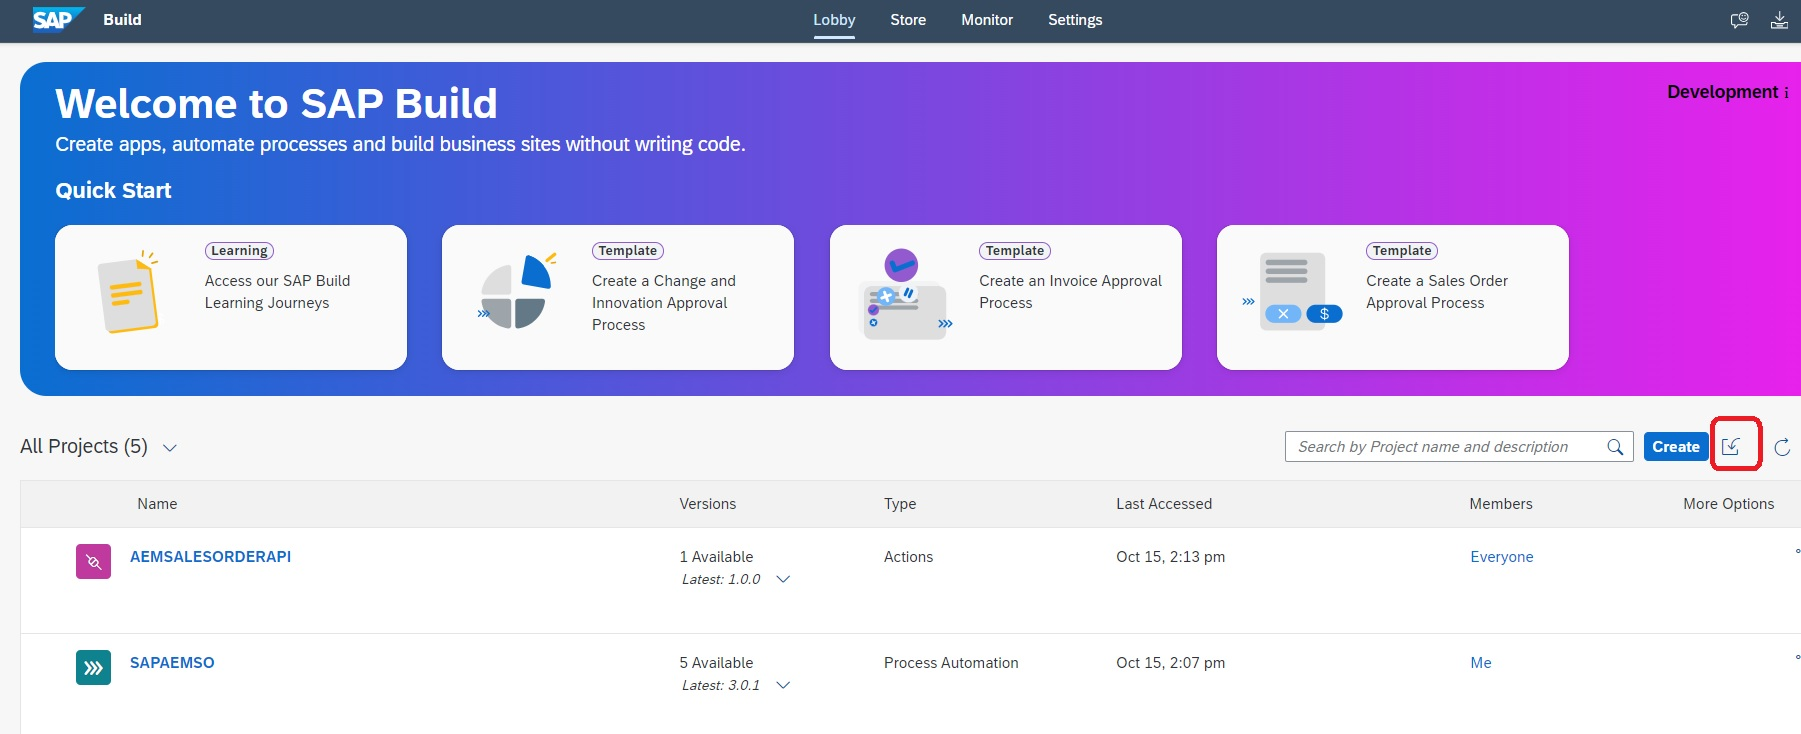
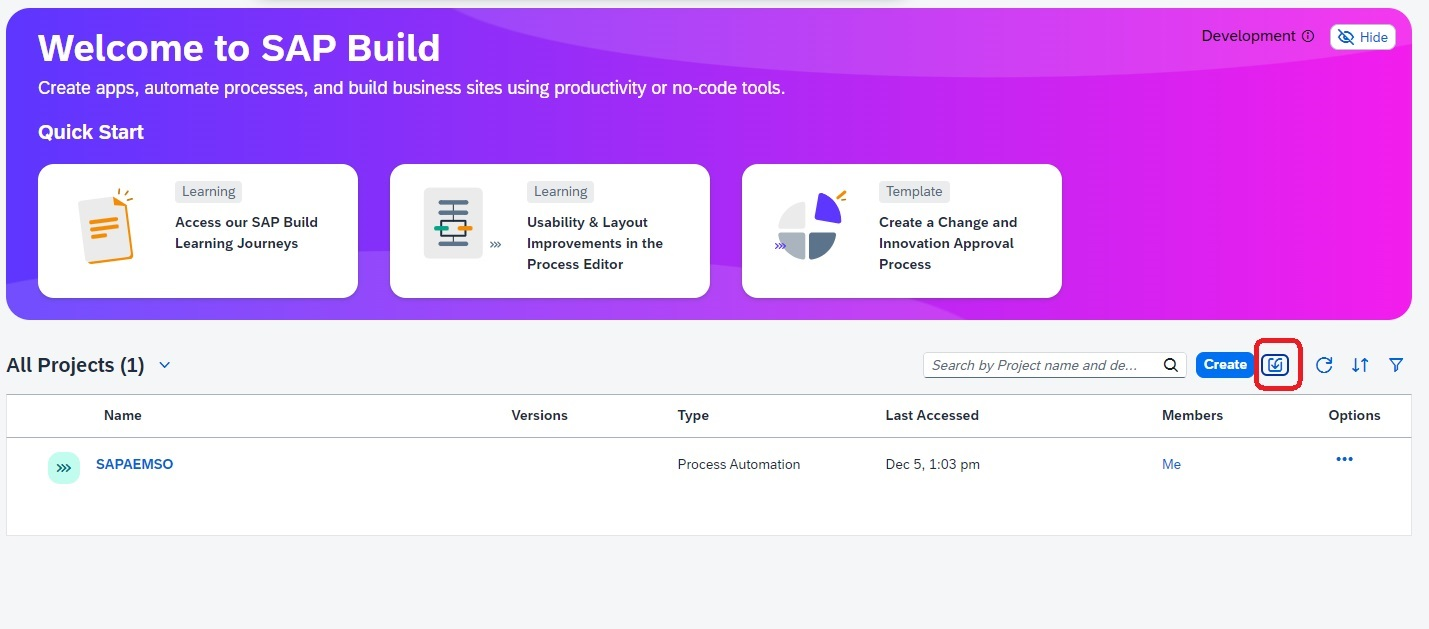
Sap aem int day 4 (#298)
* Initial version of SAP AEM Integration - day 4

* Add files via upload

* Update sap-aem-int-day-4.md

* updated codelabs folder

* Update sap-aem-int-day-4.md

* Add files via upload

* Update sap-aem-int-day-4.md

* updated exported codelabs

* updated exported codelabs

* Update sap-aem-int-day-4.md

* Add files via upload

* Update sap-aem-int-day-4.md

* Add files via upload

* Update sap-aem-int-day-4.md

* Add files via upload

* Add files via upload

* updated files

* Update sap-aem-int-day-4.md

* Add files via upload

* Update sap-aem-int-day-4.md

* Update sap-aem-int-day-4.md

* Add files via upload

* Update sap-aem-int-day-4.md

* Updated codelabs based on Scott's changes

* Update sap-aem-int-day-4.md

* Add files via upload

* Update sap-aem-int-day-4.md

* Add files via upload

* Updated codelabs with latest content

* Update sap-aem-int-day-4.md

* Add files via upload

* Add files via upload

* Update sap-aem-int-day-4.md

* Update sap-aem-int-day-4.md

* Add files via upload

* Update sap-aem-int-day-4.md

* Updated codelabs based on Scott's changes

* Update sap-aem-int-day-4.md

* Updated codelabs based on Scott's changes

* Updated codelabs for SAP AEM INT-Day-4 to include Neha's changes

* Updated codelabs for SAP AEM INT-Day-4 to include Neha's changes

* Updated codelabs for SAP AEM INT-Day-4 to include Neha's changes

* Add files via upload

* Update sap-aem-int-day-4.md

* Add files via upload

* Add files via upload
[…]

diff --git a/markdown/sap-aem-int-day-4/sap-aem-int-day-4.md b/markdown/sap-aem-int-day-4/sap-aem-int-day-4.md
@@ -26,11 +26,11 @@ Topics covered :
 
 ## Using SAP BPA to handle event exceptions
 
-In the world of Event Driven Asynchronous messaging, sometimes events cannot be successfully processed by a consumer and as a result, they need to be dealt with on an exception basis. As a result, there is built in capability within the broker referred to a Dead Messages Queue. Essentially, messages can be placed into a special queue where they can later be reviewed and properly dealt with. Should you wish to read more on the concept of Dead Message Queues, please refer to the following link. 
+In the world of Event Driven Asynchronous messaging, sometimes events cannot be successfully processed by a consumer and as a result, they need to be dealt with on an exception basis. As a result, there is built in capability within the broker referred to as a Dead Messages Queue. Essentially, messages can be placed into a special queue where they can later be reviewed and properly dealt with. Should you wish to read more on the concept of Dead Message Queues, please refer to the following link. 
 
 [Link to Blog](https://solace.com/blog/pubsub-message-handling-features-dead-message-queues/)
 
-In our scenario, we will artificially create a situation where messages cannot be delivered to the endpoint. As a result, they end up in the Dead Message Queue and the application shown below has an integration card on it called "Dead Message Queue". This card is a very simple Queue browser. It displays the messages without removing them from the Queue unless you hit the submit button. Hitting the submit button will release the message from the Queue and it will be sent to the broker with a special topic. A special topic that will result in the message being placed into a Queue that is being actively monitored by Cloud Integration. The message will be transformed by Cloud Integration and the message will be placed back into the mesh. The broker will act upon this new message and instantiate a new business process for each message.
+In our scenario, we will artificially create a situation where messages cannot be delivered to the endpoint. As a result, they end up in the Dead Message Queue and the application shown below has an integration card on it called "Dead Message Queue". This card is a very simple Queue browser. It displays the messages without removing them from the Queue unless you hit the submit button. The steps and diagram below walk through the exact flow you will be implementing.
 
 In the following diagram, you can see the flow you are about to implement.
 - Step 1 -> The user decides to investigate the item displayed in the dead message queue so they hit the submit button which causes the message to be published on the topic shown.
@@ -130,12 +130,12 @@ The business process that we will deploy is activated by an API Trigger which ca
 
 ![SAP BPA Image 1](img/SPA-BPA-1.jpg)
 
-The "Action" component needs to be associatd with a destination. In order to create the destination, you will need "REST" connectivity information from your broker. Navigate to your AEM Cloud Console, you will select the Cluster Manager and then you will select your broker. From there, you will select the “Connect” option at the top. On this screen, make sure that the “View By” is set to Protocol as the first step. From there, expand the REST protocol and everything you need to create the destination will be visible.
+The "Action" component needs to be associated with a destination. In order to create the destination, you will need "REST" connectivity information from your broker. Navigate to your AEM Cloud Console, you will select the Cluster Manager and then you will select your broker. From there, you will select the “Connect” option at the top. On this screen, make sure that the “View By” is set to Protocol as the first step. From there, expand the REST protocol and everything you need to create the destination will be visible.
 
 ![SAP BPA Image 2](img/AEM-2.jpg)
 
 ### Navigate to the BTP Cloud Cockpit
-Once you have the connectivity information, Navigate to the Destinatios Section within the BTP Cockpit, Select the “New Destination” option. You will be creating a destination called “AEMBROKERREST”.
+Once you have the connectivity information, Navigate to the Destinations Section within the BTP Cockpit, Select the “New Destination” option. You will be creating a destination called “AEMBROKERREST”.
 
 ![BPA Image 20](img/BPA-20.jpg)
 
@@ -143,29 +143,33 @@ You will populate the Destination information as shown below and you will add tw
 - sap.applicationdevelopment.actions.enabled – true
 - sap.processautomation.enabled – true
 
-When your destination is finished and saved, double check to make sure both properties are there.
+When your destination is created, double check to make sure both properties are there.
 
 
 ![BPA Image 21](img/BPA-21.jpg)
 
 ## Creating the SAP BPA Project
 
-For the SAP BPA setup, we will be importing 1 File that contains 2 projects: 
-- a project of type “Actions”
+For the SAP BPA setup, we will be importing 1 File that contains several components: 
+- 11 Artifacts
+- 1 Trigger
+- 1 Dependency for the Action Group that represents the action group
 - a project of type “Process Automation”
 
-We will import the SAPAEMSO.mtar file. Select the import option which is highlighted by the red square. When prompted, select the SAPAEMSO.mtar file for import. Once it’s successfully imported, you will see 2 projects listed as per the screenshot below 
+We will import the SAPAEMSO.mtar file. Select the import option which is highlighted by the red square. When prompted, select the SAPAEMSO.mtar file for import. Once it’s successfully imported, you will see 1 project listed as per the screenshot below 
 
 ![SPA BPA Image 11](img/SPA-BPA-11.jpg)
 
-In order to deploy the BPA project, you need to asociate the project with a Destination that you have already created in BTP. The deployment process will ask you to select a Destination so you need to register the destination with the BPA tooling. Navigate to the “Settings” tab from the BPA environment.
-In this example, we are not really creating a destination but more referencing an already existing Destination. When you click “New Destination”, you should see the Destination you created in BTP called “AEMBROKERREST”, if you don’t, you have not specified the properties correctly and you will need to investigate. Select the Destination and you should see it populate in the UI. Now, we can deploy the project.
+In order to deploy the BPA project, you need to associate the project with the Destination that you have already created in BTP. The deployment process will ask you to select a Destination so you need to register the destination with the BPA tooling. Expand the menu options on the top left.
+![SPA BPA LOBBY](img/BPA_LOBBY.png)
+Click on the Control Tower and Select Destinations
+![SPA BPA ControlTower](img/BPA_ControlTower.png)
+When you click “New Destination”, you should see the Destination you created in BTP called “AEMBROKERREST”, if you don’t, you have not specified the properties correctly and you will need to investigate. Select the Destination and you should see it populate in the UI. Now, we can deploy the project.
+![SPA BPA Destination](img/BPA_Destination.png)
 
-From the SAP BPA Environment, select the "Settings" option at the top.
-![SPA BPA Image 12](img/SPA-BPA-12.jpg)
 
-Now we will deploy the SAPAEMSO project. Click on the project to open it in the designer.
-![SPA BPA Image 13](img/SPA-BPA-13.jpg)
+Head back to the Lobby and Click on the SAPAEMSO project.
+![SPA BPA LOBBY](img/BPA_LOBBY.png)
 
 Prior to releasing the project, we have to make a small change to the project. Lets start by clicking on the "Sales Order Review" Process.
 
